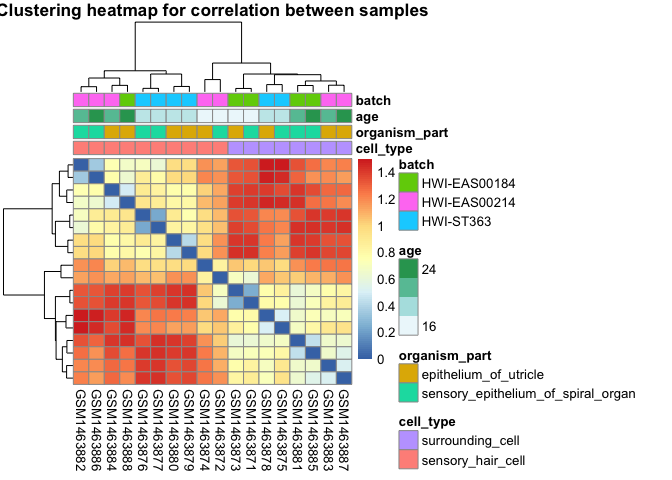
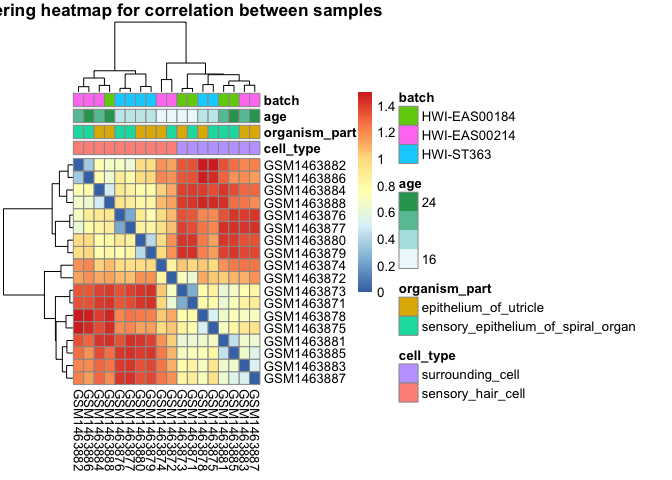
submit without bonus

diff --git a/assignment/analysis_assignment/assignment.md b/assignment/analysis_assignment/assignment.md
@@ -144,7 +144,7 @@ rownames(preDat) <- meta_data$sample
 data_to_plot <- as.dist(1-cor(stdDat))
 data_to_plot <- as.matrix(data_to_plot)
 pheatmap(data_to_plot, cluster_rows = T, scale =  "none" , clustering_method = "ward.D2",
-         clustering_distance_cols = "euclidean", show_colnames = T, show_rownames = F, 
+         clustering_distance_cols = "euclidean",
          main = "Clustering heatmap for correlation between samples",
          annotation = preDat)
 ```
@@ -155,7 +155,7 @@ Among all annotations, cell types seems to be the most strongly
 correlated with clusters in gene expression data. Since we cluster the
 correlation between samples, the highly correlated value will have a
 closer distance. The off-diagonal has distance zero in the heatmap.
-`GSM1463878` is the sample whose expression values correlate with the
+`GSM1463872` is the sample whose expression values correlate with the
 samples of the different cell\_type.
 
 ## Question 3: Conducting differential expression analysis
@@ -190,16 +190,16 @@ the critieria.
 filter_gene <- function(m){
   temp <- gene_data
   temp1 <- as.data.frame(gene_data[,-1] > 1)
-  temp$num <- apply(temp1, 1, function(z)length(z[z == T]))
+  temp$num <- apply(temp1, 1, function(z)sum(z))
   temp2 <- temp %>% 
-    filter(num > m)
-  return(temp2)
+    filter(num >= m)
+  return(temp2[,-20])
 }
 
 nrow(filter_gene(4)) 
 ```
 
-    ## [1] 12336
+    ## [1] 12761
 
 The number of genes reduced from 14479 to 12336 after filtering.
 
@@ -209,9 +209,10 @@ Reformat the data frame to only gene expression data with gene IDs as
 row names.
 
 ``` r
-lm_data <- as.data.frame(gene_data[,-1])
-rownames(lm_data) <- gene
-log_lm <- log(lm_data)
+dat <- filter_gene(4)
+lm_data <- as.data.frame(dat[,-1])
+rownames(lm_data) <- dat$gene
+log_lm <- log2(lm_data)
 ```
 
 The reason that we use logCPM to fit the linear model is that the data
@@ -237,16 +238,16 @@ dsHits %>% kable()
 
 |          | cell\_typesensory\_hair\_cell | organism\_partsensory\_epithelium\_of\_spiral\_organ |         age | cell\_typesensory\_hair\_cell.age |     AveExpr |        F | P.Value | adj.P.Val |
 | -------- | ----------------------------: | ---------------------------------------------------: | ----------: | --------------------------------: | ----------: | -------: | ------: | --------: |
-| Tmem255b |                     7.2323527 |                                          \-0.8185087 |   0.0985444 |                       \-0.0413799 |   0.9532364 | 251.2692 |       0 |         0 |
-| Mgat5b   |                     3.0744782 |                                            0.3321432 | \-0.0651029 |                         0.1037309 | \-0.1576954 | 210.0188 |       0 |         0 |
-| Mmp2     |                     0.2728479 |                                          \-0.1094241 |   0.1150436 |                       \-0.1935492 |   2.4860194 | 157.1349 |       0 |         0 |
-| Lhx3     |                     4.3617578 |                                          \-0.1767559 |   0.0112449 |                         0.0770417 |   0.1445746 | 137.2901 |       0 |         0 |
-| Tmem178b |                     3.0773891 |                                            0.1971184 | \-0.0422408 |                         0.0994874 |   2.6297833 | 126.2731 |       0 |         0 |
-| Mreg     |                     4.1004053 |                                            0.3374398 | \-0.1047154 |                         0.0292396 |   6.0963557 | 117.2482 |       0 |         0 |
-| Nrsn1    |                     6.2743535 |                                            0.1622585 |   0.0369123 |                         0.0032845 |   1.4432677 | 110.3550 |       0 |         0 |
-| Grxcr1   |                    10.9210980 |                                          \-0.0969361 |   0.2558461 |                       \-0.2070297 |   2.1141560 | 109.8142 |       0 |         0 |
-| Pifo     |                     4.6345955 |                                          \-0.8199027 |   0.0689524 |                         0.0502691 |   0.0672445 | 108.0919 |       0 |         0 |
-| Trim30d  |                     3.4333587 |                                          \-0.4895052 |   0.2738689 |                       \-0.3068628 | \-1.8239254 | 106.6446 |       0 |         0 |
+| Tmem255b |                    10.4340793 |                                          \-1.1808584 |   0.1421695 |                       \-0.0596986 |   1.3752294 | 260.8039 |       0 |         0 |
+| Mgat5b   |                     4.4355345 |                                            0.4791814 | \-0.0939236 |                         0.1496521 | \-0.2275063 | 220.6566 |       0 |         0 |
+| Mmp2     |                     0.3936364 |                                          \-0.1578656 |   0.1659729 |                       \-0.2792325 |   3.5865678 | 169.5684 |       0 |         0 |
+| Lhx3     |                     6.2926864 |                                          \-0.2550049 |   0.0162230 |                         0.1111477 |   0.2085770 | 140.4815 |       0 |         0 |
+| Tmem178b |                     4.4397341 |                                            0.2843818 | \-0.0609407 |                         0.1435300 |   3.7939753 | 130.0359 |       0 |         0 |
+| Mreg     |                     5.9156344 |                                            0.4868227 | \-0.1510723 |                         0.0421838 |   8.7951822 | 120.9430 |       0 |         0 |
+| Axl      |                   \-0.4543935 |                                            0.2733031 |   0.0658078 |                       \-0.2158131 |   5.1911555 | 113.1285 |       0 |         0 |
+| Nrsn1    |                     9.0519787 |                                            0.2340895 |   0.0532531 |                         0.0047385 |   2.0821951 | 112.0251 |       0 |         0 |
+| Grxcr1   |                    15.7558140 |                                          \-0.1398492 |   0.3691079 |                       \-0.2986807 |   3.0500823 | 111.1860 |       0 |         0 |
+| Pifo     |                     6.6863080 |                                          \-1.1828695 |   0.0994773 |                         0.0725229 |   0.0970134 | 110.1501 |       0 |         0 |
 
 These are the top 10 high-expressed genes selected by `limma` and
 `eBayes`.
@@ -260,23 +261,27 @@ out the linear estimations of this gene
 coeff <- as.data.frame(dsFit$coefficients)
 coeff <- rownames_to_column(coeff)
 t(coeff %>% 
-  filter(gene == "Eva1a")) %>%  kable()
+  filter(rowname == "Eva1a")) %>%  kable()
 ```
 
 |                                                      |             |
 | :--------------------------------------------------- | :---------- |
 | rowname                                              | Eva1a       |
-| (Intercept)                                          | 2.759541    |
-| cell\_typesensory\_hair\_cell                        | \-3.596564  |
-| organism\_partsensory\_epithelium\_of\_spiral\_organ | 1.384532    |
-| age                                                  | \-0.1458939 |
-| cell\_typesensory\_hair\_cell:age                    | 0.1197279   |
+| (Intercept)                                          | 3.981176    |
+| cell\_typesensory\_hair\_cell                        | \-5.188745  |
+| organism\_partsensory\_epithelium\_of\_spiral\_organ | 1.997458    |
+| age                                                  | \-0.2104804 |
+| cell\_typesensory\_hair\_cell:age                    | 0.1727309   |
 
 Here the reference in this model is surrounding cells and epithelium of
 utricle, the `Eva1a` is more active in surrounding cells, comparing with
 expression in hair cells; more active in spiral organ than epithelium of
 utricle. As mouse ageing, the predicted gene expression changes are
-subtle.
+subtle. As age increase by 1 week unit, while hoding all other
+covariatrets constant, the predicted expression level in log2 scale for
+the gene `Eva1a` in the surrounding cells in the epithelium of utricle
+would decrease by
+0.2104804.
 
 ## Question 4: Evaluating the results
 
@@ -286,19 +291,28 @@ Here we use the p-value adjusted method `fdr` introduced by Benjamini &
 Hochberg, which give strong control of the family-wise error rate in
 multiple pairwise comparisons. Since we want the number of genes with
 adjusted p-value reater than 0.05, we reset the maximum number of genes
-to list as 14479 (total number of
+to list as 12761 (total selected number of
 genes).
 
 ``` r
-dsHits2 <- topTable(dsEbFit, number = 14479, adjust.method = "fdr", p.value = 0.05)
+dsHits2 <- topTable(dsEbFit, number = 12761, adjust.method = "fdr", p.value = 0.05)
 nrow(dsHits2)
 ```
 
-    ## [1] 6364
+    ## [1] 6150
 
-We find that there are 6364 genes that differentially expressed by cell
+We find that there are 6150K genes that differentially expressed by cell
 types.
 
 ### Q4.2: Interpret the interaction term (3 POINTS)
+
+An interaction occures when an independent variable has a different
+effect on the outcome depending on then values of another independent
+variable. The interaction term between cell type and age is essentially
+trying to model wether the effect of cell types on expression is
+different for different ages. For a particular gene, a significant
+interaction term with p value less than 0.05 at 0.05 sufnufucance level
+means that the effect of cell types on the gene expression on that
+particular gene is different across ages.
 
 ### Bonus Question (2 POINTS)
